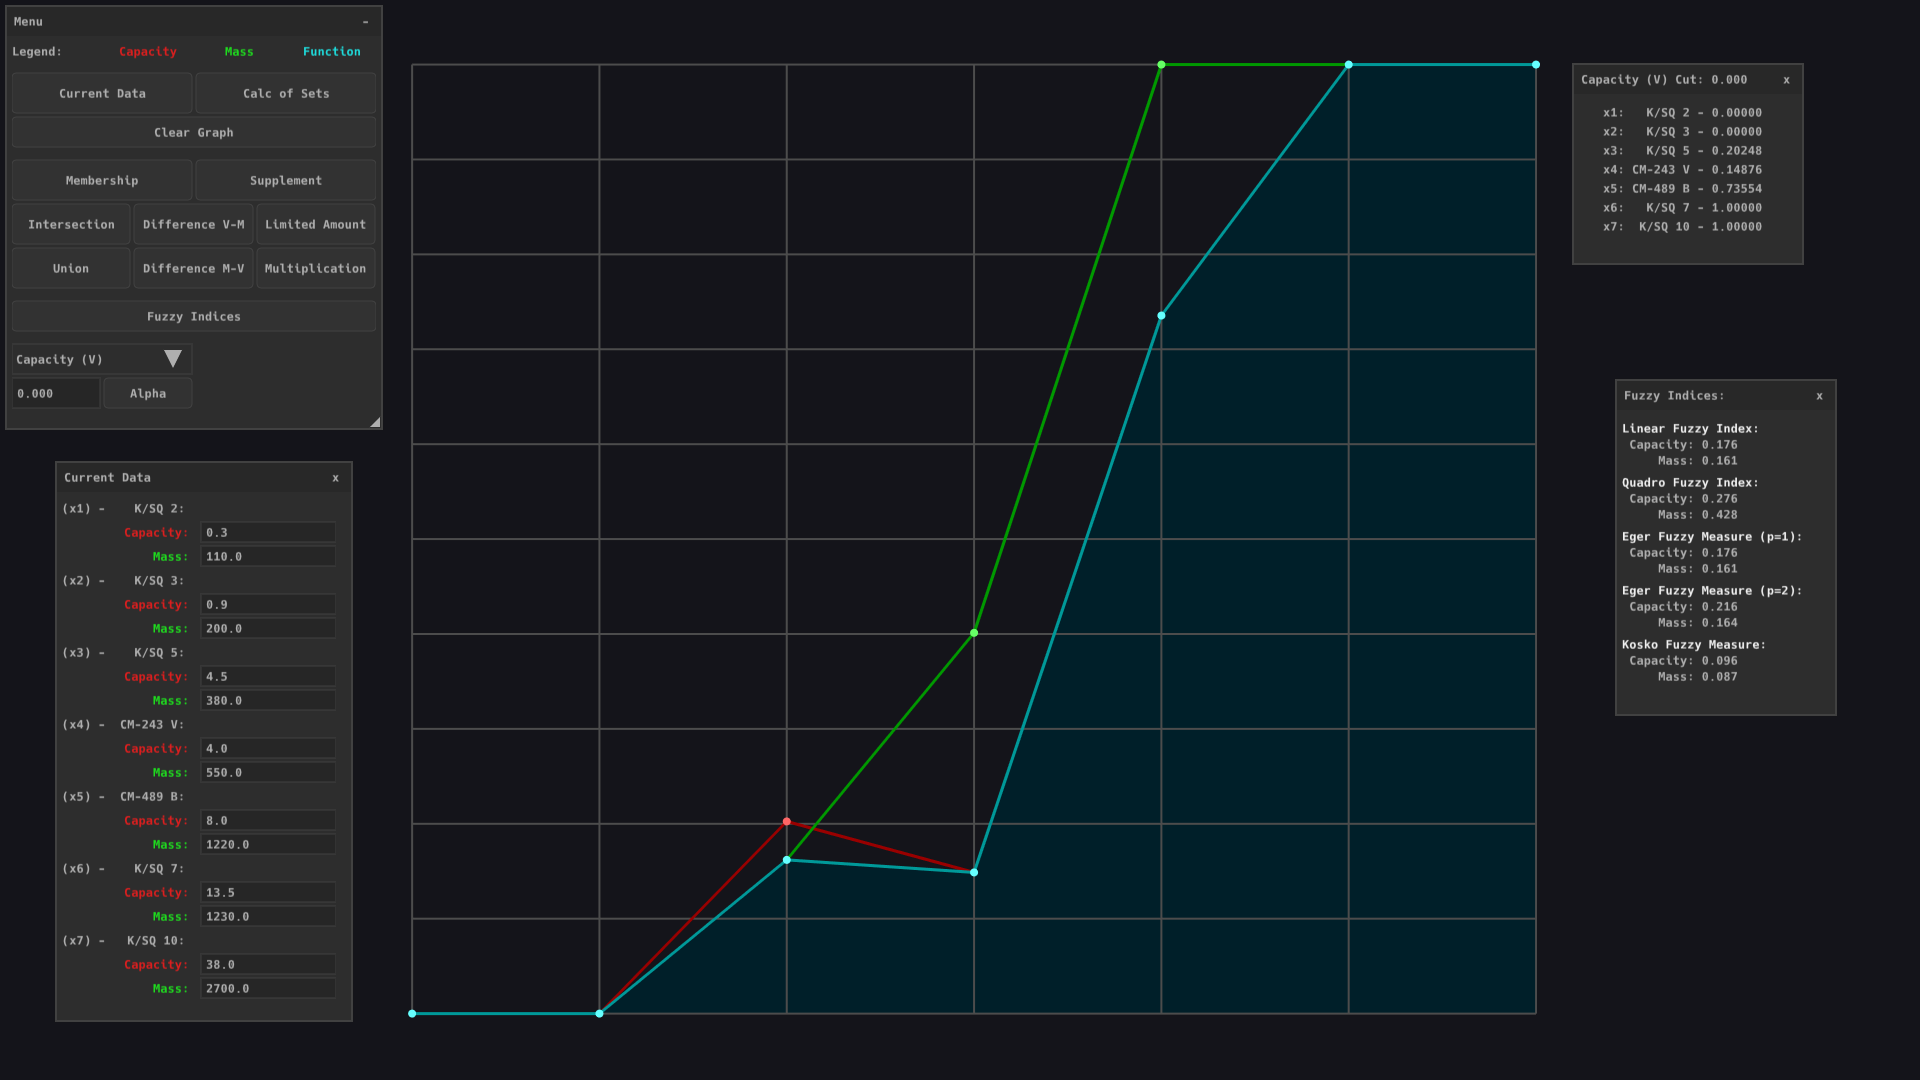
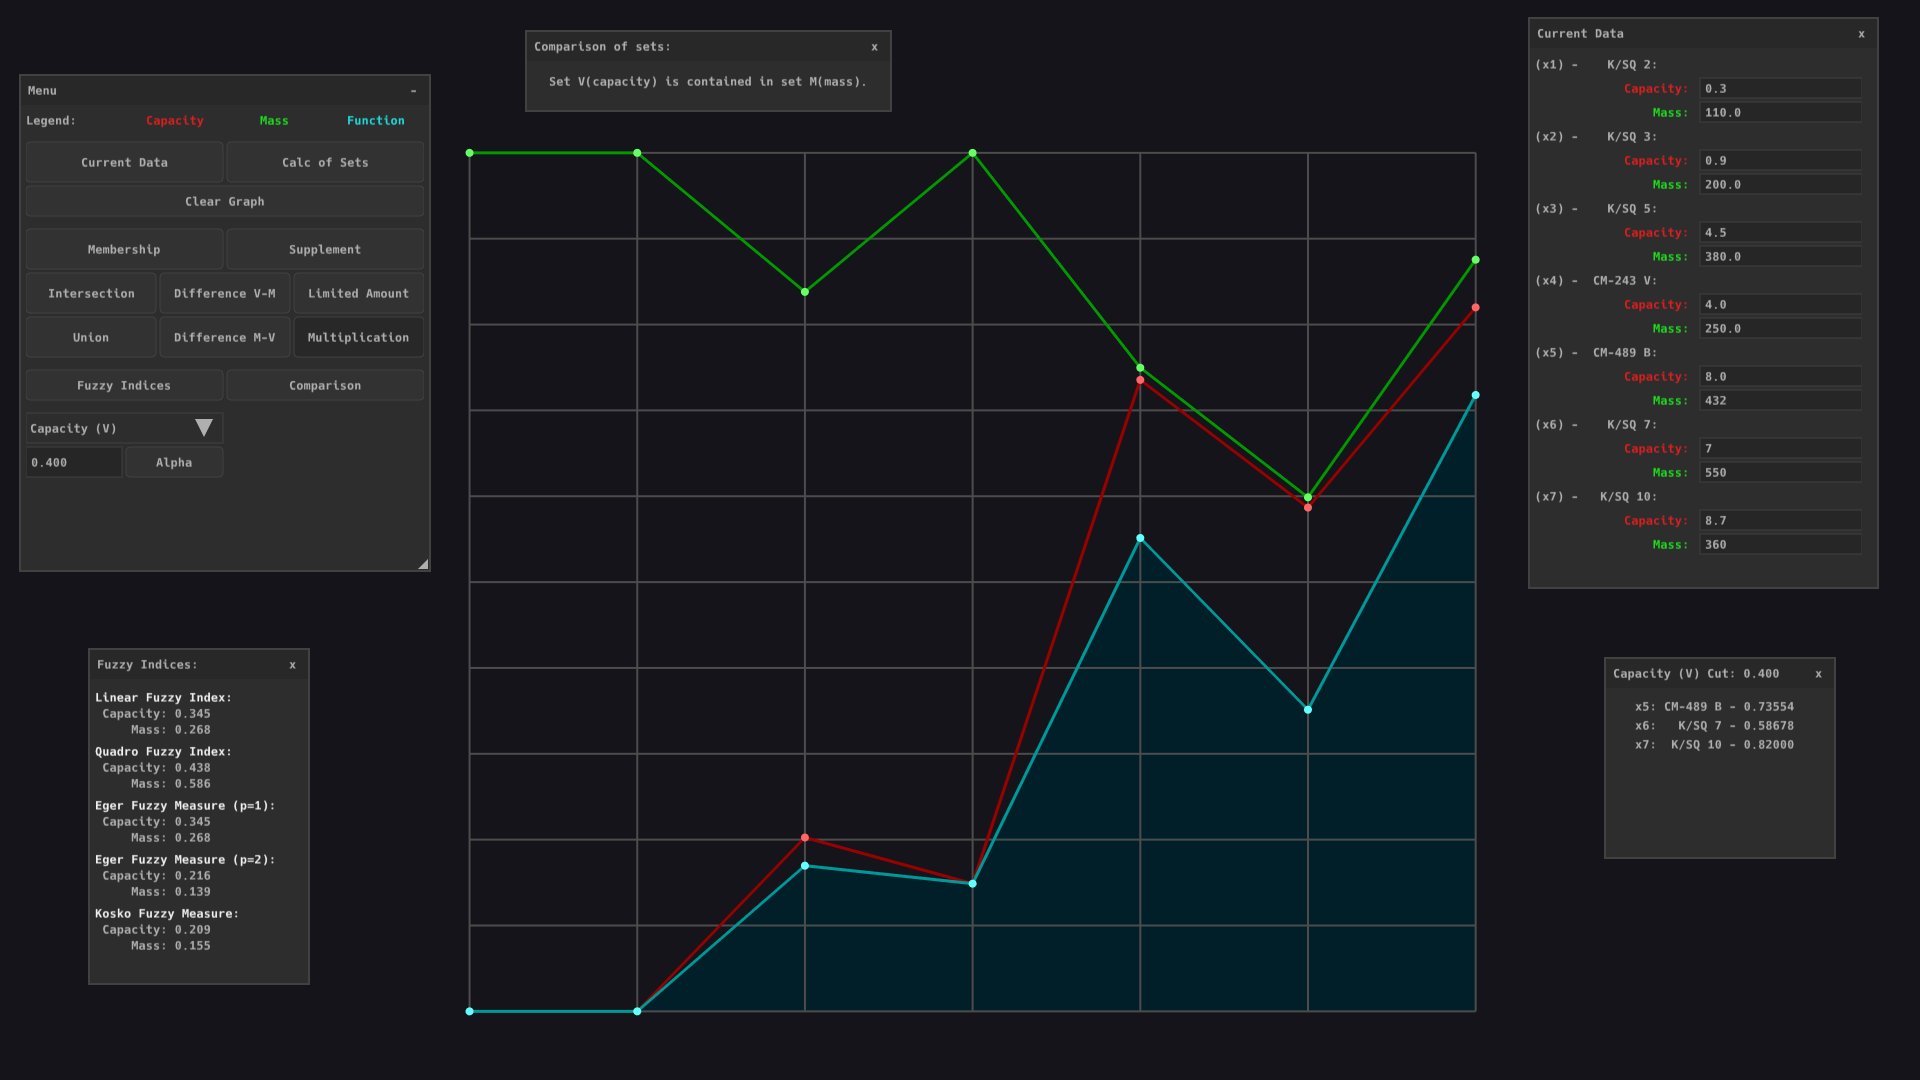
Add comparison of sets

diff --git a/One/src/graphics.c b/One/src/graphics.c
@@ -40,12 +40,12 @@ void FillGraph(int length, double set[],
         double colorR, double colorG, double colorB) 
 {
     glColor3f(colorR, colorG, colorB);
-    //const float gradIndex = 1.5;
+    /* const float gradIndex = 1.5; */
     glBegin(GL_QUAD_STRIP);
     for (int i = 0; i < length; i++) {
-        //glColor3f(0, 0.1/gradIndex, 0.1/gradIndex);
+        /* glColor3f(0, 0.1/gradIndex, 0.1/gradIndex); */
         glVertex2f(i, 0);
-        //glColor3f(0, set[i]/gradIndex, set[i]/gradIndex);
+        /* glColor3f(0, set[i]/gradIndex, set[i]/gradIndex); */
         glVertex2f(i, set[i]);
     }
     glEnd();
@@ -188,6 +188,23 @@ void IndexMessage(struct nk_context *ctx)
     nk_end(ctx);
 }
 
+void ComparisonMessage(struct nk_context *ctx) 
+{
+    const static char menuName[] = "Comparison of sets:";
+    if (nk_begin(ctx, menuName, 
+            nk_rect(398, winHeight-80-8, 365, 80),
+            NK_WINDOW_CLOSABLE | NK_WINDOW_BORDER  |
+            NK_WINDOW_TITLE    | NK_WINDOW_MOVABLE |
+            NK_WINDOW_NO_SCROLLBAR))
+    {
+        nk_layout_row_dynamic(ctx, layoutSpacing, 1);
+            nk_spacing(ctx, 0);
+        nk_layout_row_dynamic(ctx, 10, 1);
+            nk_label(ctx, compStr, NK_TEXT_CENTERED);
+    } else comparisonMessage = 0;
+    nk_end(ctx);
+}
+
 void Messages(struct nk_context *ctx)
 {
     if (alphaMessage) {
@@ -201,6 +218,9 @@ void Messages(struct nk_context *ctx)
     }
     if (indexMessage) {
         IndexMessage(ctx);
+    }
+    if (comparisonMessage) {
+        ComparisonMessage(ctx);
     }
 }
 
@@ -252,9 +272,11 @@ void MainMenu(struct nk_context *ctx)
 
         nk_layout_row_dynamic(ctx, layoutSpacing, 1);
             nk_spacing(ctx, 0);
-        nk_layout_row_dynamic(ctx, 30, 1);
+        nk_layout_row_dynamic(ctx, 30, 2);
             if (nk_button_label(ctx, "Fuzzy Indices"))
                 indexMessage = !indexMessage;
+            if (nk_button_label(ctx, "Comparison"))
+                comparisonMessage = !comparisonMessage;
 
         nk_layout_row_dynamic(ctx, layoutSpacing, 1);
             nk_spacing(ctx, 0);

diff --git a/One/src/calculation.c b/One/src/calculation.c
@@ -66,6 +66,7 @@ void CalcOfSets()
     printf("  Capacity: %5.3f\n", fuzTwoV);
     printf("  Mass: %5.3f\n", fuzTwoM);
 
+    /* Мера нечеткости Коско */
     printf("\n-------------------- Kosko Fuzzy Measure --------------------\n\n"); 
     koskoV = Kosko(memberArrV);
     koskoM = Kosko(memberArrM);
@@ -113,6 +114,15 @@ void CalcOfSets()
     for (int i = 0; i < arrLength; i++) {
         printf("  (x%i) | %5.3f \n", i+1, multiplicationArr[i]);
     }
+
+    /* Сравнение нечетких множеств */
+    printf("\n-------------------- Comparison of sets --------------------\n\n"); 
+    compFlag = Comparison(memberArrV, memberArrM);
+    if (compFlag == _compXinY) compStr = "Set V(capacity) is contained in set M(mass).";
+    else if (compFlag == _compYinX) compStr = "Set M(mass) is contained in set V(capacity).";
+    else if (compFlag == _compEqual) compStr = "Sets are equal.";
+    else compStr = "Nothing.";
+    printf("  %s\n", compStr);
 
     /* Декартово | Прямое произведение */
     /* printf("\n-------------------- Cartesian Product --------------------\n\n"); 

diff --git a/One/src/math.c b/One/src/math.c
@@ -165,3 +165,28 @@ double Kosko(double x[])
     Union(x, supplementX, unionX);
     return Cardinalis(intersectionX) / Cardinalis(unionX);
 }
+
+int Comparison(double x[], double y[])
+{
+    int flag;
+
+    flag = 0;
+    for (int i = 0; i < arrLength; i++) {
+        if (x[i] <= y[i]) flag++;
+        else break;
+    } if (flag == arrLength) return _compXinY;
+
+    flag = 0;
+    for (int i = 0; i < arrLength; i++) {
+        if (x[i] >= y[i]) flag++;
+        else break;
+    } if (flag == arrLength) return _compYinX;
+
+    flag = 0;
+    for (int i = 0; i < arrLength; i++) {
+        if (x[i] == y[i]) flag++; 
+        else break;
+    } if (flag == arrLength) return _compEqual;
+
+    return -1;
+}

diff --git a/One/src/main.c b/One/src/main.c
@@ -10,6 +10,7 @@ int main(void)
     minV = 1, maxV = 12; midV = (minV + maxV) / 2;
     minM = 300, maxM = 1200; midM = (minM + maxM) / 2;
 
+    compStr = "Not initialized.";
     /* --------------- Graphics Vars --------------- */
     SDL_Window *window;
     SDL_GLContext glContext;
@@ -18,6 +19,7 @@ int main(void)
     dataMessage = 0;
     alphaMessage = 0;
     indexMessage = 0;
+    comparisonMessage = 0;
     alphaCut = 0;
 
     struct nk_context *ctx;

diff --git a/One/src/settings.h b/One/src/settings.h
@@ -24,6 +24,10 @@
 #define _differenceMV 7
 #define _multiplication 8
 
+#define _compEqual 0
+#define _compXinY 1
+#define _compYinX 2
+
 #define layoutSpacing 5
 #define arrLength 7
 
@@ -64,12 +68,15 @@ const int fontSize = 14;
 const int winWidth = 1200;
 const int winHeight = 800;
 
+char *compStr; int compFlag;
+
 int currentArr;
 int drawSet;
 
 int dataMessage;
 int indexMessage;
 int alphaMessage;
+int comparisonMessage;
 
 double alphaCut;
 
